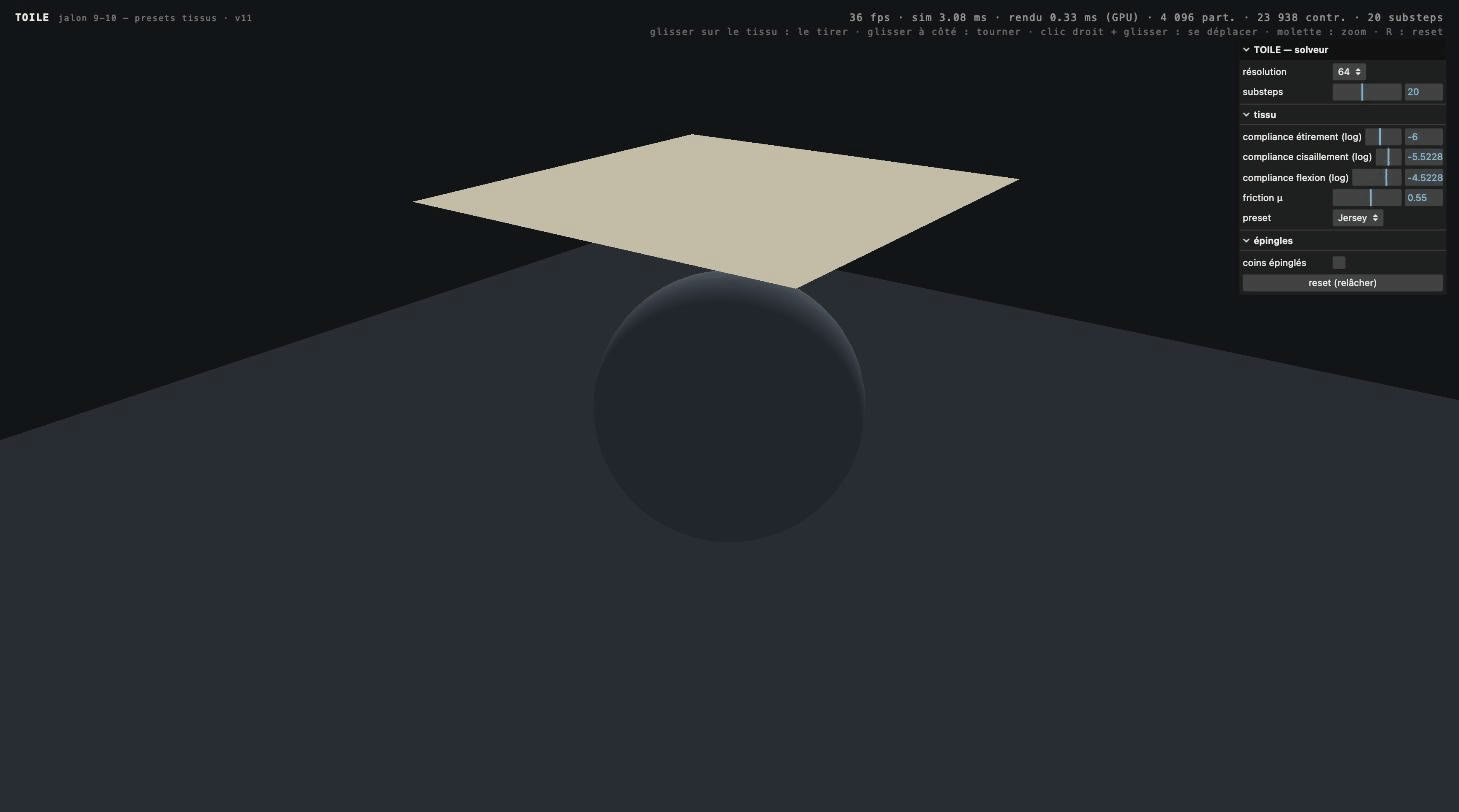
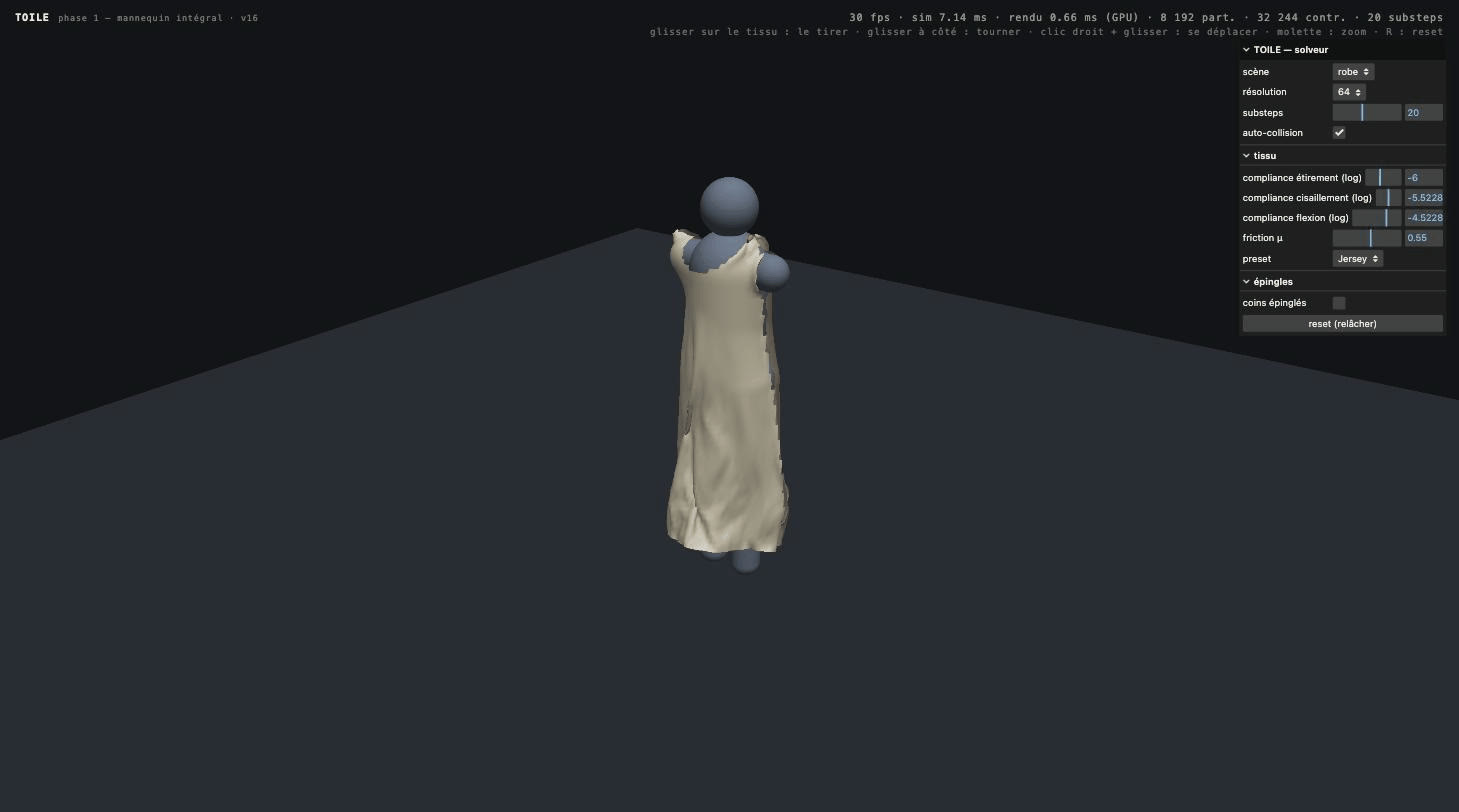
fix: dress pattern fit (narrower neck opening) + tailored silk friction; docs: mannequin fashion-show GIF and gallery

diff --git a/src/engine/cloth/ClothMesh.ts b/src/engine/cloth/ClothMesh.ts
@@ -199,11 +199,14 @@ export interface SeamedPanelsOptions {
 /** True when grid cell (u,v) ∈ [0,1]² lies inside the A-line pattern piece. */
 function alineShape(u: number, v: number): boolean {
   const x = Math.abs(u - 0.5);
-  const halfWidth = 0.26 + (0.5 - 0.26) * v; // fitted top → full hem
+  // Fitted top → full hem. The top stays narrow so the neck opening ring is
+  // smaller than the shoulder span — otherwise the dress slips off over time
+  // (a genuine pattern-fitting bug found by the sim itself).
+  const halfWidth = 0.21 + (0.5 - 0.21) * v;
   if (x > halfWidth) return false;
-  // Elliptical neckline scoop, leaving straps on both sides.
-  if (v < 0.14) {
-    const scoop = 0.13 * Math.sqrt(1 - (v / 0.14) ** 2);
+  // Elliptical neckline scoop, leaving straps close to the neck.
+  if (v < 0.12) {
+    const scoop = 0.1 * Math.sqrt(1 - (v / 0.12) ** 2);
     if (x < scoop) return false;
   }
   return true;

diff --git a/src/app/ControlPanel.ts b/src/app/ControlPanel.ts
@@ -64,11 +64,12 @@ const PRESETS: Record<string, FabricPreset> = {
     style: { face: [0.23, 0.29, 0.45], back: [0.52, 0.58, 0.7], exponent: 1.4, ambient: 0.3 },
   },
   // Silk: inextensible but extremely floppy (fine wrinkles), slippery, sheeny.
+  // (μ 0.25: slippery enough to read as silk, grippy enough to stay dressed.)
   Soie: {
     stretch: 1e-8,
     shear: 8e-7,
     bend: 1e-4,
-    friction: 0.15,
+    friction: 0.25,
     style: { face: [0.93, 0.87, 0.78], back: [0.8, 0.68, 0.58], exponent: 3.5, ambient: 0.12 },
   },
 };

diff --git a/src/main.ts b/src/main.ts
@@ -23,7 +23,7 @@ const SPHERE = [{ a: [0, 0.8, 0] as V3, radius: 0.55 }];
 const MANNEQUIN = [
   { a: [0, 1.62, 0] as V3, radius: 0.11 }, // head
   { a: [0, 1.46, 0] as V3, b: [0, 1.54, 0] as V3, radius: 0.05 }, // neck
-  { a: [-0.16, 1.4, 0] as V3, b: [0.16, 1.4, 0] as V3, radius: 0.07 }, // shoulders
+  { a: [-0.19, 1.4, 0] as V3, b: [0.19, 1.4, 0] as V3, radius: 0.07 }, // shoulders
   { a: [0, 1.16, 0] as V3, b: [0, 1.38, 0] as V3, radius: 0.155 }, // torso
   { a: [-0.05, 0.94, 0] as V3, b: [0.05, 0.94, 0] as V3, radius: 0.15 }, // hips
   { a: [-0.08, 0.9, 0] as V3, b: [-0.085, 0.08, 0] as V3, radius: 0.065 }, // left leg

diff --git a/README.md b/README.md
@@ -4,7 +4,7 @@
 XPBD solver running entirely on WebGPU compute shaders — zero CPU round-trips per frame.
 
 <p align="center">
-  <img src="docs/media/demo.gif" alt="Cloth dropping and draping over a sphere, then silk cascading" width="720" />
+  <img src="docs/media/demo.gif" alt="A seamed dress worn by a mannequin, cycling through jersey, denim and silk fabrics" width="720" />
 </p>
 
 <p align="center">
@@ -13,9 +13,9 @@ XPBD solver running entirely on WebGPU compute shaders — zero CPU round-trips 
 
 TOILE (*French: the muslin test garment a pattern is validated on*) is the open engine at the core of a browser-based 3D garment design tool: an open, web-first alternative to proprietary desktop suites. The engine and the garment file format are free software; anyone can build on them.
 
-> **Status: Phase 0 — feasibility prototype, weeks 9-10 of 12.**
-> Solver, collisions, interaction, surface rendering and fabric presets are done and deployed.
-> Remaining: Blender drape comparison, final polish.
+> **Status: Phase 0 complete · Phase 1 (garment construction) underway.**
+> The engine now sews: pattern pieces are cut to shape, seamed along their
+> edges, and assembled onto a full mannequin — with cloth self-collision.
 
 ## Why
 
@@ -26,15 +26,17 @@ TOILE (*French: the muslin test garment a pattern is validated on*) is the open 
 ## What works today
 
 - **XPBD cloth solver on GPU compute** — distance (structural + shear) and bending constraints, graph-colored for race-free parallel solving, 20 substeps per frame
-- **Collisions** — sphere + ground with Coulomb friction, zero visible interpenetration
+- **Garment construction** — pattern pieces cut to shape (A-line, neckline, straps), stitched with seam constraints along their shaped edges, assembled live onto the body
+- **Self-collision** — GPU spatial hash (atomic linked cells); folds slide instead of interpenetrating
+- **Capsule colliders** — the scene mannequin (head, shoulders, torso, hips, legs) is a handful of capsules; sphere and ground included
 - **Grab the fabric** — raycast picking with a temporary drag constraint; orbit/pan/zoom camera
 - **Fabric presets** — Jersey / Denim / Silk: per-fabric stretch, shear, bending compliance, friction *and* look (face/back colors, sheen)
-- **Live tuning** — mesh resolution 32/64/128, substeps, log-scale compliance sliders, friction, corner pins
+- **Live tuning** — three scenes (drape / sewing / dress), mesh resolution 32/64/128, substeps, log-scale compliance sliders, friction, self-collision toggle
 - **Perf HUD** — fps plus GPU-timestamped sim vs render times
 
-| Jersey — soft knit | Silk — fluid, sheeny |
-|---|---|
-| ![Jersey draped over a sphere](docs/media/jersey.jpg) | ![Silk cascading over a sphere](docs/media/silk.jpg) |
+| Jersey — soft knit | Denim — stiff twill | Silk — fluid, sheeny |
+|---|---|---|
+| ![Jersey dress on the mannequin](docs/media/jersey.jpg) | ![Denim dress on the mannequin](docs/media/denim.jpg) | ![Silk dress on the mannequin](docs/media/silk.jpg) |
 
 ## Controls
 
@@ -89,8 +91,8 @@ The engine never imports a rendering framework. This boundary is what makes it p
 
 ## Roadmap
 
-- **Phase 0 (now)** — feasibility: stable interactive drape at 60 fps ✅
-- **Phase 1** — garment construction: 2D pattern seaming, true dihedral bending, cloth self-collision
+- **Phase 0** — feasibility: stable interactive drape at 60 fps ✅
+- **Phase 1 (now)** — garment construction: pattern seaming ✅, shaped pieces ✅, self-collision ✅, mannequin ✅ — next: true dihedral bending, richer pattern shapes
 - **Phase 2** — SMPL-X avatars, pattern editor, open community fabric library
 
 ## License

diff --git a/docs/VISION.md b/docs/VISION.md
@@ -10,8 +10,8 @@ honest about what exists, what's planned, and what's deliberately out.
 |---|---|---|---|
 | **Cloth simulation** | GPU trim simulation, fabric-aware strain maps, fabric swap | ✅ Phase 0 done — XPBD on WebGPU compute, 60 fps at 128², fabric presets (physics + look), measured benchmarks | — |
 | **2D pattern making** | Pattern Drafter, sketch-on-avatar, annotations, symmetric tracing | ❌ | Phase 2 — pattern editor |
-| **Seaming 2D→3D** | Assemble pattern pieces on the body, gluing, lacing | ❌ | **Phase 1 — next major milestone** |
-| **Avatars & animation** | Blend shapes, rigged accessories, VRM, animation timeline | ❌ | Phase 2 — SMPL-X |
+| **Seaming 2D→3D** | Assemble pattern pieces on the body, gluing, lacing | ✅ First version — shaped pieces (A-line, neckline, straps), side + shoulder seams, assembled live on a capsule mannequin, with cloth self-collision | Phase 1 continues: dihedral bending, richer shapes |
+| **Avatars & animation** | Blend shapes, rigged accessories, VRM, animation timeline | Capsule mannequin (head/shoulders/torso/hips/legs) | Phase 2 — SMPL-X |
 | **Rendering & details** | Zippers, fur, toon shader, isolate mode | Basic lit surface | Post-Phase 2 |
 | **Production** | Auto POM & grading, nesting, cost estimation, DXF export | ❌ | Post-NGI; DXF import considered earlier for interop |
 